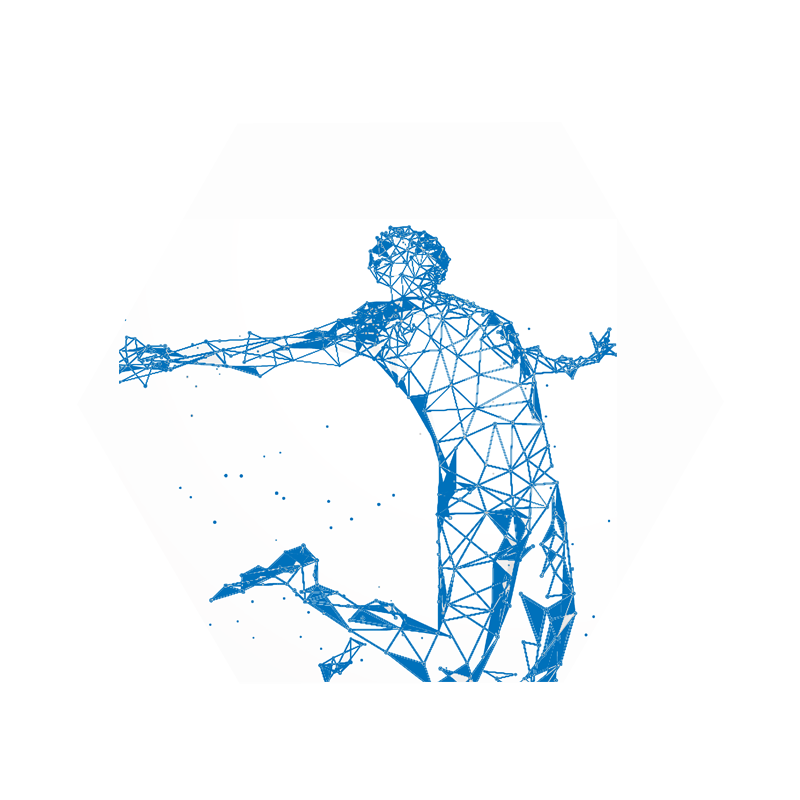
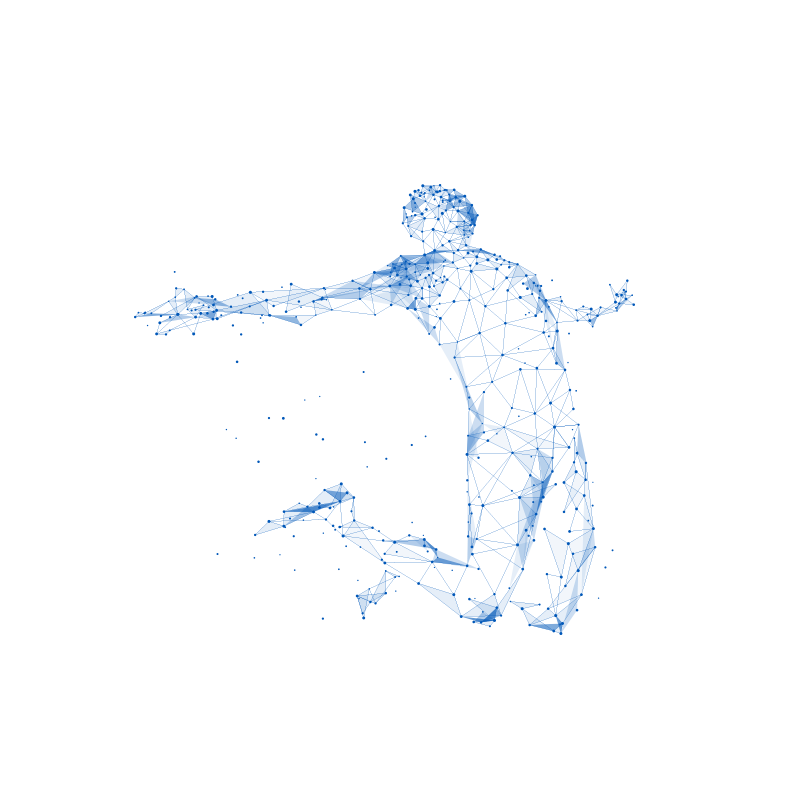
Alteração de imagens e adicionado ícone de Login no rodapé

Changed region(s): [[0.125, 0.2188, 0.7812, 0.875]]

diff --git a/index.html b/index.html
@@ -193,7 +193,7 @@
 								<p class="txt-peq">Avaliação e um detalhado diagnóstico sobre o seu estado de saúde.</p>
                             </div>
                         </div>
-                        <img src="images/integrada-verde.jpg" class="img-responsive" alt="">
+                        <img src="images/jump_verde.png" class="img-responsive" alt="">
 						<p style="text-align: center"><a href="consultoria.html#health" class="btn btn-primary">Saiba Mais</a></p>
                     </a>
 
@@ -208,7 +208,7 @@
 								<p class="txt-peq">Plano alimentar personalizado de acordo com a análise nutricional.</p>
                             </div>
                         </div>
-                        <img src="images/integrada-rosa.jpg" class="img-responsive" alt="">
+                        <img src="images/run_roxo.png" class="img-responsive" alt="">
 						<p style="text-align: center"><a href="consultoria.html#food" class="btn btn-primary">Saiba Mais</a></p>
                     </a>
 
@@ -223,7 +223,7 @@
 							<p class="txt-peq">Treinos personalizados com base nas avaliações médica e nutricional</p>
 							</div>
                         </div>
-                        <img src="images/integrada-azul.jpg" class="img-responsive" alt="">
+                        <img src="images/body_azul.png" class="img-responsive" alt="">
 						<p style="text-align: center"><a href="consultoria.html#body" class="btn btn-primary">Saiba Mais</a></p>
                     </a>
                 </div>
@@ -345,34 +345,26 @@
 						<div id="testimonial-slider" class="owl-carousel" style="height: auto;">
 							<div>
 								<img src="images/cotation.png" alt="IMG">
-								<p>"This Company created an e-commerce site with the tools to make our business a success, with innovative ideas we feel that our site has unique elements that make us stand out from the crowd."</p>
+								<p>“Alguns detalhes chamam muita a atenção nesse programa. O grande profissionalismo dos especialistas, a dinâmica de avaliações e o contato frequente comigo para obter feedback dos resultados, além da rápida e pronta resposta em caso de dúvidas e questionamentos.”</p>
 								<div class="user">
 									<!--<img src="img/item-img1.jpg" alt="Pepole">-->
-									<p><span>Rose Ray</span> CEO</p>
+									<p><span>Alexander Mendes,</span> CQuality Customer Analyst</p>
 								</div>
 							</div>
 							<div>
 								<img src="images/cotation.png" alt="IMG">
-								<p>"This Company created an e-commerce site with the tools to make our business a success, with innovative ideas we feel that our site has unique elements that make us stand out from the crowd."</p>
+								<p>“Perfeito para quem quer mudar hábitos e atitudes com liberdade, mas com responsabilidade e comprometimento. Ter o respaldo de especialidades integradas e disponíveis para nos apoiar é estimulo para desenvolver o programa na busca do resultado desejado.”</p>
 								<div class="user">
 									<!--<img src="img/item-img1.jpg" alt="Pepole">-->
-									<p><span>Rose Ray</span> CEO</p>
+									<p><span>Rosana Araújo,</span> Publicitária</p>
 								</div>
 							</div>
 							<div>
 								<img src="images/cotation.png" alt="IMG">
-								<p>"This Company created an e-commerce site with the tools to make our business a success, with innovative ideas we feel that our site has unique elements that make us stand out from the crowd."</p>
+								<p>"Uma experiência transformadora! O programa despertou em mim uma vaidade adormecida a tempos pelos resultados alcançados. Quando você vê a transformação do seu corpo, sua disposição muda! Alimentação aliada a atividade física, feita especificamente para você, faz toda diferença. "</p>
 								<div class="user">
 									<!--<img src="img/item-img1.jpg" alt="Pepole">-->
-									<p><span>Rose Ray</span> CEO</p>
-								</div>
-							</div>
-							<div>
-								<img src="images/cotation.png" alt="IMG">
-								<p>"This Company created an e-commerce site with the tools to make our business a success, with innovative ideas we feel that our site has unique elements that make us stand out from the crowd."</p>
-								<div class="user">
-									<!--<img src="img/item-img1.jpg" alt="Pepole">-->
-									<p><span>Rose Ray</span> CEO</p>
+									<p><span>Danielle Martins,</span> Coordenadora de comunicação escolar</p>
 								</div>
 							</div>
 						</div>
@@ -753,7 +745,7 @@
 		<audio id="yourAudio" preload='none'>
 			<source src="./music/upbe.mp3" type='audio/mpeg' />
 		</audio>
-		<a href="#" id="audioControl"><img src="images/som-off.jpg" class="img-responsive"></a>
+		<a href="#" id="audioControl"><img src="images/player-off.png" class="img-responsive"></a>
 	</div>
 
 	<footer id="footer" role="contentinfo" style="width:100%; margin:0 auto; background-size: contain; background-position: right;">
@@ -773,6 +765,7 @@
 						<li><a href="https://www.facebook.com/upbe.br/" target="_blank"><i class="icon-facebook"></i></a></li>
 						<li><a href="https://www.instagram.com/upbeme/" target="_blank"><i class="icon-instagram"></i></a></li>
 						<li><a href="https://twitter.com/upbeme" target="_blank"><i class="icon-twitter"></i></a></li>
+						<li><a href="http://trainingymapp.com/webtouch/" target="_blank"><i class="icon-lock"></i></a></li>
 					</ul>
 				</div>
 			</div>
@@ -787,8 +780,8 @@
 		ctrl.onclick = function () {
 
 			// Update the Button
-			var pause = ctrl.innerHTML === '<img src="images/som-on.jpg" class="img-responsive">';
-			ctrl.innerHTML = pause ? '<img src="images/som-off.jpg" class="img-responsive">' : '<img src="images/som-on.jpg" class="img-responsive">';
+			var pause = ctrl.innerHTML === '<img src="images/player-on.png" class="img-responsive">';
+			ctrl.innerHTML = pause ? '<img src="images/player-off.png" class="img-responsive">' : '<img src="images/player-on.png" class="img-responsive">';
 
 			// Update the Audio
 			var method = pause ? 'pause' : 'play';

diff --git a/consultoria.html b/consultoria.html
@@ -138,7 +138,7 @@
 						</div>
 
 						<div class="col-md-4 text-left ">
-							<img src="images/integrada-verde.jpg" class="img-responsive" alt="">
+							<img src="images/jump_verde.png" class="img-responsive" alt="">
 						</div>
 					</div>
 
@@ -157,7 +157,7 @@
 						</div>
 
 						<div class="col-md-4 text-left ">
-							<img src="images/integrada-rosa.jpg" class="img-responsive" alt="">
+							<img src="images/run_roxo.png" class="img-responsive" alt="">
 						</div>
 					</div>
 					<div id="body"></div>
@@ -172,7 +172,7 @@
 							<p>Além do encontro mensal para atualização da planilha física, você tem três opções para escolher de que maneira cumprirá seu planejamento de exercícios: um <strong>acompanhamento remoto</strong> por meio do aplicativo <strong>upbe</strong>, na qual você define onde e quando irá realizar suas atividades, um <strong>educador físico compartilhado</strong> ou até um <strong>personal trainer</strong> dedicado em local e horário de sua preferência.</p>
 						</div>
 						<div class="col-md-4 text-left ">
-							<img src="images/integrada-azul.jpg" class="img-responsive" alt="">
+							<img src="images/body_azul.png" class="img-responsive" alt="">
 						</div>
 					</div>
 
@@ -239,6 +239,7 @@
 						<li><a href="https://www.facebook.com/upbe.br/" target="_blank"><i class="icon-facebook"></i></a></li>
 						<li><a href="https://www.instagram.com/upbeme/" target="_blank"><i class="icon-instagram"></i></a></li>
 						<li><a href="https://twitter.com/upbeme" target="_blank"><i class="icon-twitter"></i></a></li>
+						<li><a href="http://trainingymapp.com/webtouch/" target="_blank"><i class="icon-lock"></i></a></li>
 					</ul>
 				</div>
 			</div>
@@ -253,8 +254,8 @@
         ctrl.onclick = function () {
 
             // Update the Button
-            var pause = ctrl.innerHTML === '<img src="images/som-on.jpg" class="img-responsive">';
-            ctrl.innerHTML = pause ? '<img src="images/som-off.jpg" class="img-responsive">' : '<img src="images/som-on.jpg" class="img-responsive">';
+            var pause = ctrl.innerHTML === '<img src="images/player-on.png" class="img-responsive">';
+            ctrl.innerHTML = pause ? '<img src="images/player-off.png" class="img-responsive">' : '<img src="images/player-on.png" class="img-responsive">';
 
             // Update the Audio
             var method = pause ? 'pause' : 'play';

diff --git a/acompanhamento.html b/acompanhamento.html
@@ -184,7 +184,7 @@
 					<audio id="yourAudio" preload='none'>
 						<source src="./music/upbe.mp3" type='audio/mpeg' />
 					</audio>
-					<a href="#" id="audioControl"><img src="images/som-off.jpg" class="img-responsive"></a>
+					<a href="#" id="audioControl"><img src="images/player-off.png" class="img-responsive"></a>
 				</div>
 
 				<div class="col-md-12 text-center">
@@ -193,6 +193,7 @@
                         <li><a href="https://www.facebook.com/upbe.br/" target="_blank"><i class="icon-facebook"></i></a></li>
                         <li><a href="https://www.instagram.com/upbeme/" target="_blank"><i class="icon-instagram"></i></a></li>
                         <li><a href="https://twitter.com/upbeme" target="_blank"><i class="icon-twitter"></i></a></li>
+						<li><a href="http://trainingymapp.com/webtouch/" target="_blank"><i class="icon-lock"></i></a></li>
 					</ul>
 				</div>
 			</div>
@@ -207,8 +208,8 @@
         ctrl.onclick = function () {
 
             // Update the Button
-            var pause = ctrl.innerHTML === '<img src="images/som-on.jpg" class="img-responsive">';
-            ctrl.innerHTML = pause ? '<img src="images/som-off.jpg" class="img-responsive">' : '<img src="images/som-on.jpg" class="img-responsive">';
+            var pause = ctrl.innerHTML === '<img src="images/player-on.png" class="img-responsive">';
+            ctrl.innerHTML = pause ? '<img src="images/player-off.png" class="img-responsive">' : '<img src="images/player-on.png" class="img-responsive">';
 
             // Update the Audio
             var method = pause ? 'pause' : 'play';

diff --git a/conceito.html b/conceito.html
@@ -186,6 +186,7 @@
 						<li><a href="https://www.facebook.com/upbe.br/" target="_blank"><i class="icon-facebook"></i></a></li>
 						<li><a href="https://www.instagram.com/upbeme/" target="_blank"><i class="icon-instagram"></i></a></li>
 						<li><a href="https://twitter.com/upbeme" target="_blank"><i class="icon-twitter"></i></a></li>
+						<li><a href="http://trainingymapp.com/webtouch/" target="_blank"><i class="icon-lock"></i></a></li>
 					</ul>
 				</div>
 			</div>
@@ -200,8 +201,8 @@
         ctrl.onclick = function () {
 
             // Update the Button
-            var pause = ctrl.innerHTML === '<img src="images/som-on.jpg" class="img-responsive">';
-            ctrl.innerHTML = pause ? '<img src="images/som-off.jpg" class="img-responsive">' : '<img src="images/som-on.jpg" class="img-responsive">';
+            var pause = ctrl.innerHTML === '<img src="images/player-on.png" class="img-responsive">';
+            ctrl.innerHTML = pause ? '<img src="images/player-off.png" class="img-responsive">' : '<img src="images/player-on.png" class="img-responsive">';
 
             // Update the Audio
             var method = pause ? 'pause' : 'play';

diff --git a/planos.html b/planos.html
@@ -223,6 +223,7 @@
 						<li><a href="https://www.facebook.com/upbe.br/" target="_blank"><i class="icon-facebook"></i></a></li>
 						<li><a href="https://www.instagram.com/upbeme/" target="_blank"><i class="icon-instagram"></i></a></li>
 						<li><a href="https://twitter.com/upbeme" target="_blank"><i class="icon-twitter"></i></a></li>
+						<li><a href="http://trainingymapp.com/webtouch/" target="_blank"><i class="icon-lock"></i></a></li>
 					</ul>
 				</div>
 			</div>
@@ -238,8 +239,8 @@
         ctrl.onclick = function () {
 
             // Update the Button
-            var pause = ctrl.innerHTML === '<img src="images/som-on.jpg" class="img-responsive">';
-            ctrl.innerHTML = pause ? '<img src="images/som-off.jpg" class="img-responsive">' : '<img src="images/som-on.jpg" class="img-responsive">';
+            var pause = ctrl.innerHTML === '<img src="images/player-on.png" class="img-responsive">';
+            ctrl.innerHTML = pause ? '<img src="images/player-off.png" class="img-responsive">' : '<img src="images/player-on.png" class="img-responsive">';
 
             // Update the Audio
             var method = pause ? 'pause' : 'play';

diff --git a/plataformas.html b/plataformas.html
@@ -235,6 +235,7 @@
 						<li><a href="https://www.facebook.com/upbe.br/" target="_blank"><i class="icon-facebook"></i></a></li>
 						<li><a href="https://www.instagram.com/upbeme/" target="_blank"><i class="icon-instagram"></i></a></li>
 						<li><a href="https://twitter.com/upbeme" target="_blank"><i class="icon-twitter"></i></a></li>
+						<li><a href="http://trainingymapp.com/webtouch/" target="_blank"><i class="icon-lock"></i></a></li>
 
 					</ul>
 				</div>
@@ -250,8 +251,8 @@
         ctrl.onclick = function () {
 
             // Update the Button
-            var pause = ctrl.innerHTML === '<img src="images/som-on.jpg" class="img-responsive">';
-            ctrl.innerHTML = pause ? '<img src="images/som-off.jpg" class="img-responsive">' : '<img src="images/som-on.jpg" class="img-responsive">';
+            var pause = ctrl.innerHTML === '<img src="images/player-on.png" class="img-responsive">';
+            ctrl.innerHTML = pause ? '<img src="images/player-off.png" class="img-responsive">' : '<img src="images/player-on.png" class="img-responsive">';
 
             // Update the Audio
             var method = pause ? 'pause' : 'play';

diff --git a/css/style.css b/css/style.css
@@ -135,12 +135,12 @@ h2 {
 }
 
 .verde{
-  color: #95b566;
+  color: #6BA539;
   font-weight: bold;
 }
 
 #tarja-vert-verde{
-  background-color: #95b566;
+  background-color: #6BA539;
   width: 13px;
   height: 300px;
   position: relative;
@@ -149,7 +149,7 @@ h2 {
 }
 
 #tarja-vert-rosa{
-  background-color: #e6277b;
+  background-color: #B0008E ;
   width: 13px;
   height: 378px;
   position: relative;
@@ -158,7 +158,7 @@ h2 {
 }
 
 #tarja-vert-azul{
-  background-color: #312b95;
+  background-color: #0057BB ;
   width: 13px;
   height: 405px;
   position: relative;
@@ -167,7 +167,7 @@ h2 {
 }
 
 .rosa{
-  color: #e6277b;
+  color: #B0008E ;
   font-weight: bold;
 }
 
@@ -176,7 +176,7 @@ h2 {
 }
 
 .azul{
-  color: #312b95;
+  color: #0057BB ;
   font-weight: bold;
 }
 .branco{
